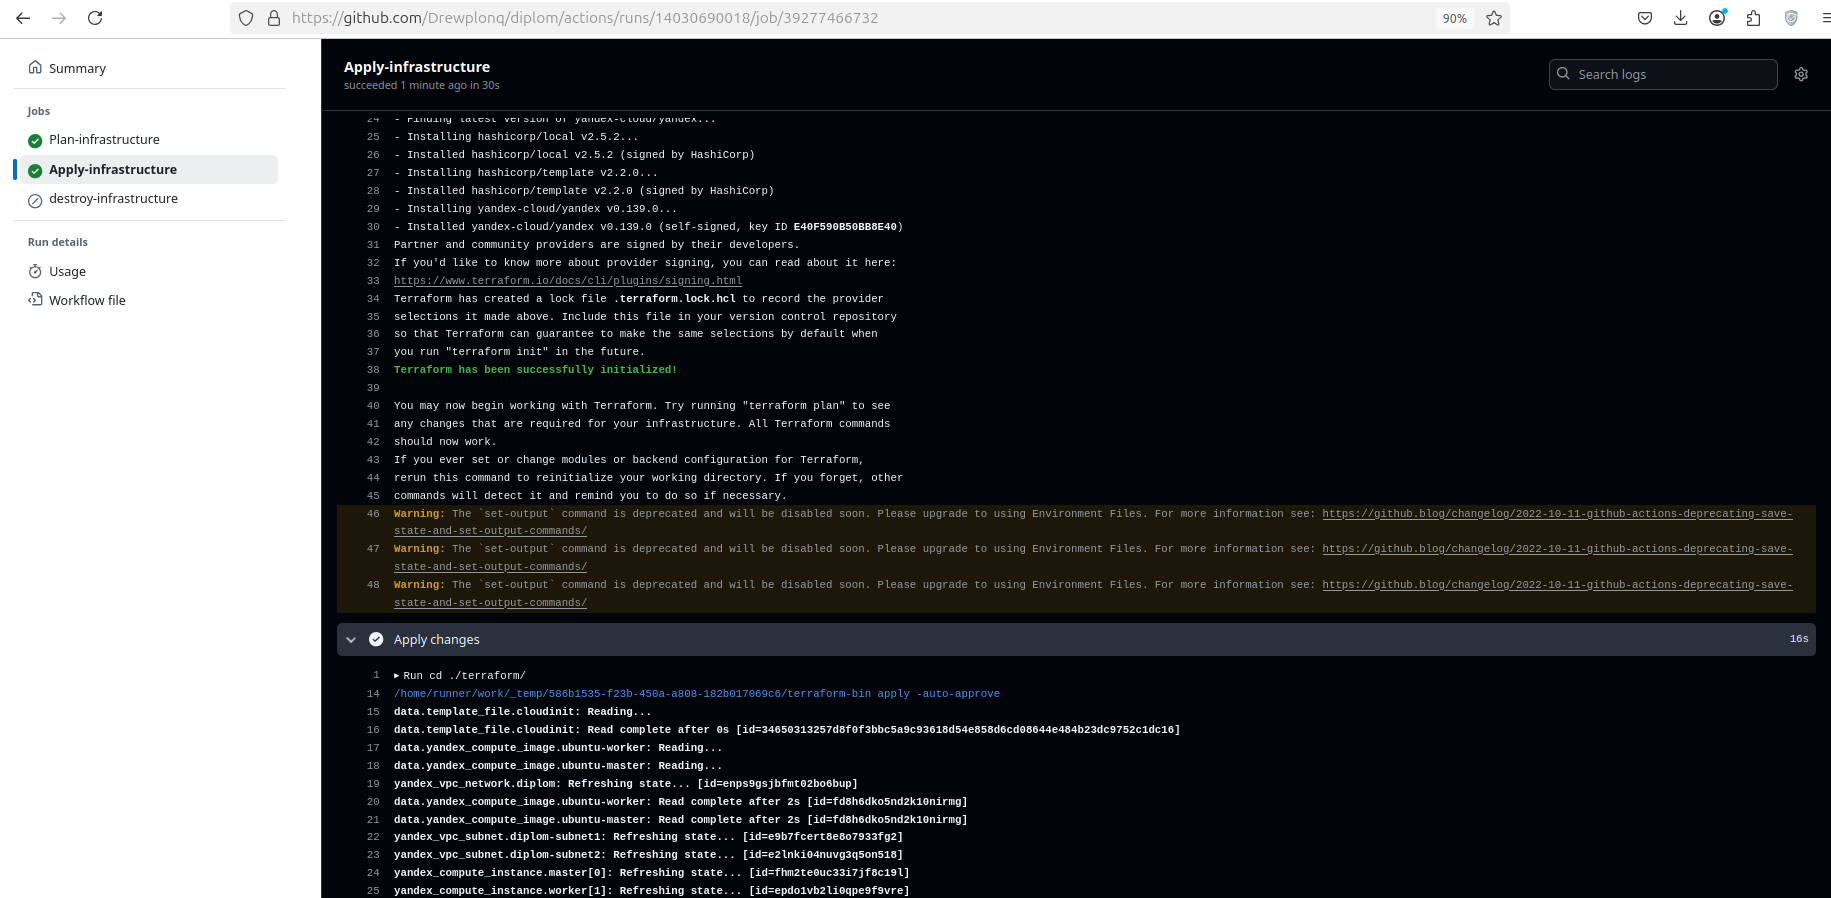
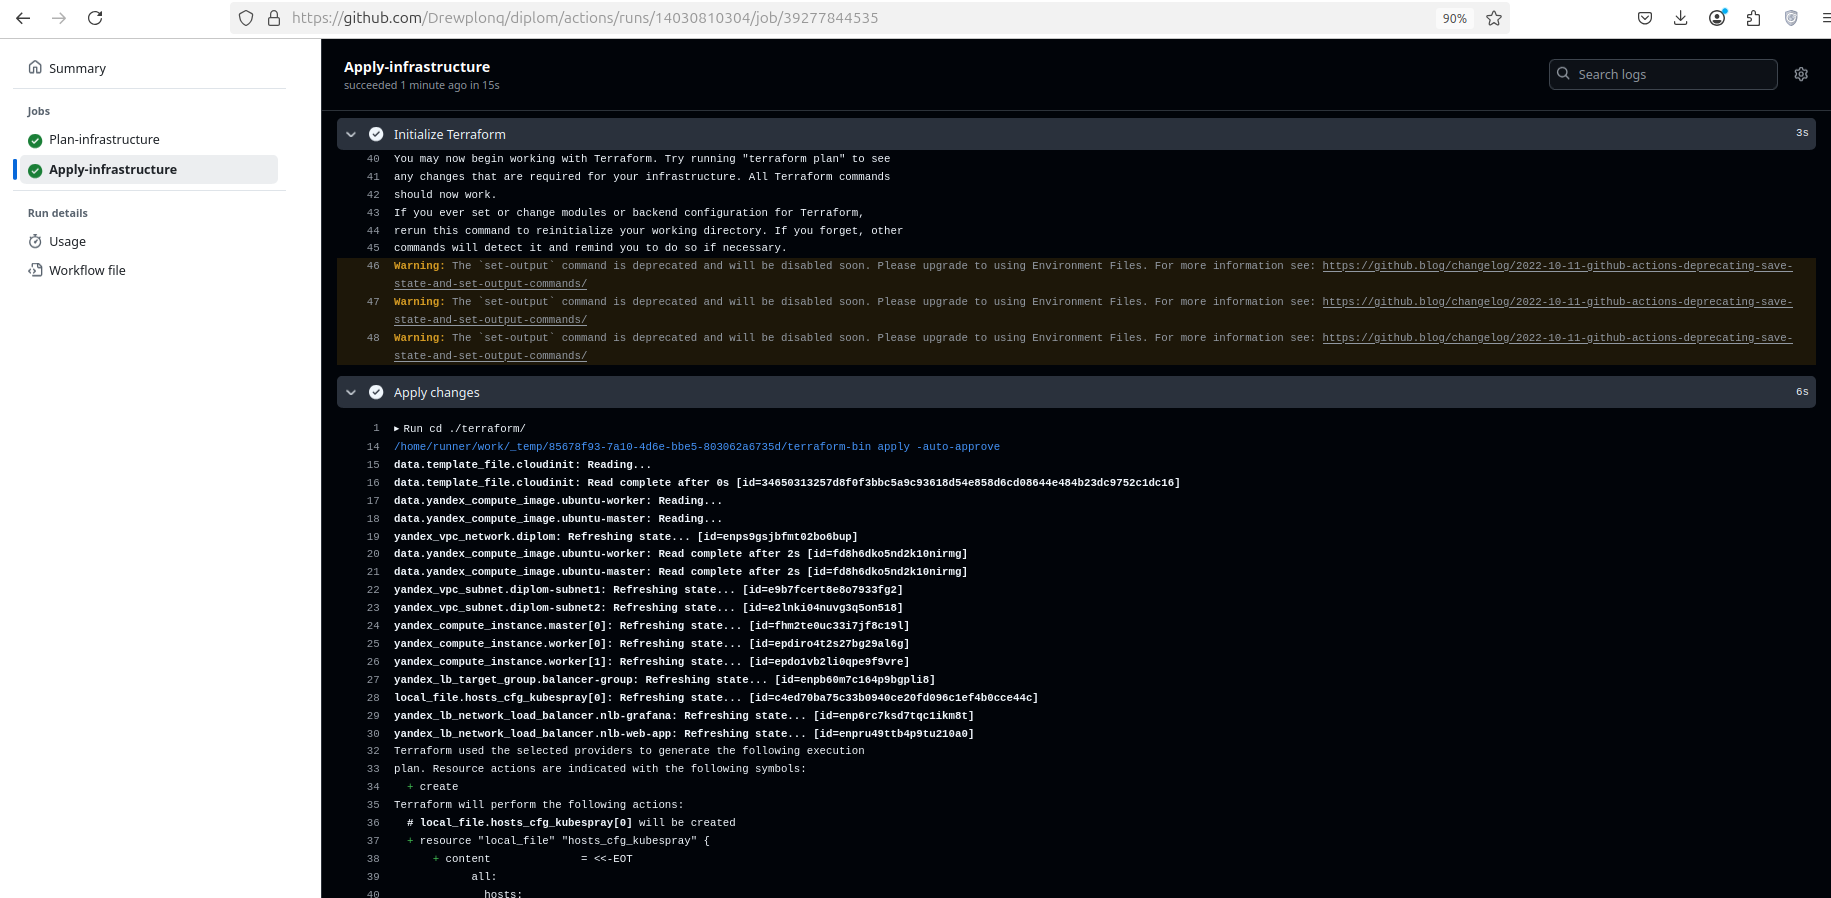
ci'cd

diff --git a/README.md b/README.md
@@ -78,7 +78,6 @@ https://github.com/Drewplonq/diplom/tree/main/k8sapps/prometheus
 
 ![alt text](img/image-17.png) 
 
-### 
-
+### Ci/CD при любом коммите
 
 ![alt text](img/image-18.png)
